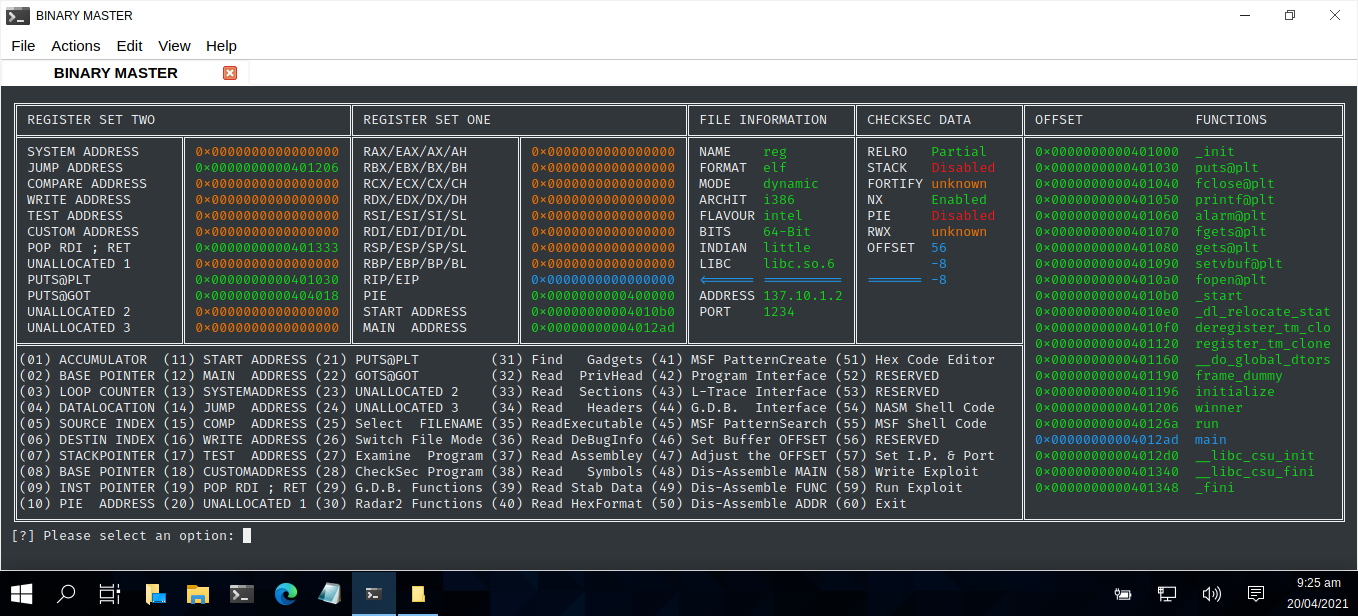
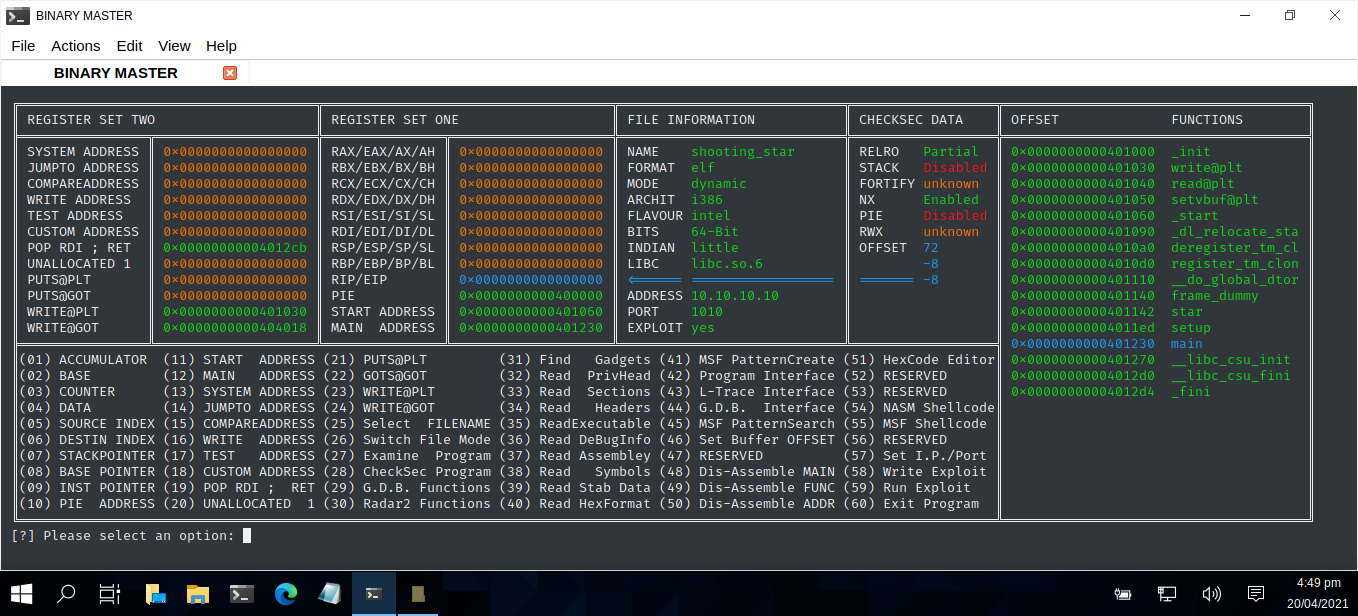
Full Stack

diff --git a/BinaryMaster.py b/BinaryMaster.py
@@ -164,12 +164,12 @@ def saveParams():
    return     
 
 def dispMenu():
-   print('\u2554' + ('\u2550')*38 + '\u2566' + ('\u2550')*36 + '\u2566' + ('\u2550')*28 + '\u2566' + ('\u2550')*18 + '\u2566' + ('\u2550')*37 + '\u2557')
-   print('\u2551' + " REGISTER SET TWO " + (" ")*20 + '\u2551' + " REGISTER SET ONE " + (" ")*18 + '\u2551' + " FILE INFORMATION " + (" ")*10 + '\u2551' + " CHECKSEC DATA    " + '\u2551' + " OFFSET              FUNCTIONS       " + '\u2551')
-   print('\u2560' + ('\u2550')*17 + '\u2566' + ('\u2550')*20 + '\u256C' + ('\u2550')*15 + '\u2566' + ('\u2550')*20 + '\u256C' + ('\u2550')*28 + '\u256C' + ('\u2550')*18 + '\u256C' +  ('\u2550')*37 + '\u2563')   
+   print('\u2554' + ('\u2550')*37 + '\u2566' + ('\u2550')*36 + '\u2566' + ('\u2550')*28 + '\u2566' + ('\u2550')*18 + '\u2566' + ('\u2550')*38 + '\u2557')
+   print('\u2551' + " REGISTER SET TWO " + (" ")*19 + '\u2551' + " REGISTER SET ONE " + (" ")*18 + '\u2551' + " FILE INFORMATION " + (" ")*10 + '\u2551' + " CHECKSEC DATA    " + '\u2551' + " OFFSET              FUNCTIONS        " + '\u2551')
+   print('\u2560' + ('\u2550')*16 + '\u2566' + ('\u2550')*20 + '\u256C' + ('\u2550')*15 + '\u2566' + ('\u2550')*20 + '\u256C' + ('\u2550')*28 + '\u256C' + ('\u2550')*18 + '\u256C' +  ('\u2550')*38 + '\u2563')   
 # -- -- -- -- -- -- -- -- -- -- -- -- -- -- -- -- -- -- -- -- -- --- -- -- --- -  
    for x in range(0,12):
-      print('\u2551' + HED1[x][:17] + '\u2551', end=' ')
+      print('\u2551' + HED1[x][:16] + '\u2551', end=' ')
       if REG2[x] == "0x0000000000000000":
          print(colored(REG2[x],colour7), end=' ')
       else:
@@ -215,7 +215,7 @@ def dispMenu():
          print(colored(FUNC[x],colour6), end=' ')
       print('\u2551')	
 # -- -- -- -- -- -- -- -- -- -- -- -- -- -- -- -- -- -- -- -- -- --- -- -- --- -  
-   print('\u2560' + ('\u2550')*17 + '\u2569' + ('\u2550')*20 + '\u2569' + ('\u2550')*15 + '\u2569' + ('\u2550')*20 + '\u2569' + ('\u2550')*28 + '\u2569' + ('\u2550')*18 + '\u2563', end=' ')
+   print('\u2560' + ('\u2550')*16 + '\u2569' + ('\u2550')*20 + '\u2569' + ('\u2550')*15 + '\u2569' + ('\u2550')*20 + '\u2569' + ('\u2550')*28 + '\u2569' + ('\u2550')*18 + '\u2563', end=' ')
    if "main" in FUNC[12]:
       print(colored(FUNC[12],colour3), end=' ')
    else:
@@ -224,77 +224,77 @@ def dispMenu():
    return
    
 def options():
-   print('\u2551' + "(01) ACCUMULATOR  (11) START ADDRESS (21) PUTS@PLT         (31) Find   Gadgets (41) MSF PatternCreate (51) Hex Code Editor " + '\u2551',end=' ')
+   print('\u2551' + "(01) ACCUMULATOR  (11) START  ADDRESS (21) PUTS@PLT         (31) Find   Gadgets (41) MSF PatternCreate (51) HexCode Editor" + '\u2551',end=' ')
    if "main" in FUNC[13]:
       print(colored(FUNC[13],colour3), end=' ')
    else:
       print(colored(FUNC[13],colour6), end=' ')     
    print('\u2551')
 # -- -- -- -- -- -- -- -- -- -- -- -- -- -- -- -- -- -- -- -- -- --- -- -- --- -  
-   print('\u2551' + "(02) BASE POINTER (12) MAIN  ADDRESS (22) GOTS@GOT         (32) Read  PrivHead (42) Program Interface (52) RESERVED        " + '\u2551',end=' ')
+   print('\u2551' + "(02) BASE         (12) MAIN   ADDRESS (22) GOTS@GOT         (32) Read  PrivHead (42) Program Interface (52) RESERVED      " + '\u2551',end=' ')
    if "main" in FUNC[14]:
       print(colored(FUNC[14],colour3), end=' ')
    else:
       print(colored(FUNC[14],colour6), end=' ')     
    print('\u2551')
 # -- -- -- -- -- -- -- -- -- -- -- -- -- -- -- -- -- -- -- -- -- --- -- -- --- -  
-   print('\u2551' + "(03) LOOP COUNTER (13) SYSTEMADDRESS (23) UNALLOCATED 2    (33) Read  Sections (43) L-Trace Interface (53) RESERVED        " + '\u2551',end=' ')
+   print('\u2551' + "(03) COUNTER      (13) SYSTEM ADDRESS (23) WRITE@PLT        (33) Read  Sections (43) L-Trace Interface (53) RESERVED      " + '\u2551',end=' ')
    if "main" in FUNC[15]:
       print(colored(FUNC[15],colour3), end=' ')
    else:
       print(colored(FUNC[15],colour6), end=' ')     
    print('\u2551')
 # -- -- -- -- -- -- -- -- -- -- -- -- -- -- -- -- -- -- -- -- -- --- -- -- --- - 
-   print('\u2551' + "(04) DATALOCATION (14) JUMP  ADDRESS (24) UNALLOCATED 3    (34) Read   Headers (44) G.D.B.  Interface (54) NASM Shell Code " + '\u2551', end=' ')
+   print('\u2551' + "(04) DATA         (14) JUMPTO ADDRESS (24) WRITE@GOT        (34) Read   Headers (44) G.D.B.  Interface (54) NASM Shellcode" + '\u2551', end=' ')
    if "main" in FUNC[16]:
       print(colored(FUNC[16],colour3), end=' ')
    else:
       print(colored(FUNC[16],colour6), end=' ')
    print('\u2551')
 # -- -- -- -- -- -- -- -- -- -- -- -- -- -- -- -- -- -- -- -- -- --- -- -- --- -  
-   print('\u2551' + "(05) SOURCE INDEX (15) COMP  ADDRESS (25) Select  FILENAME (35) ReadExecutable (45) MSF PatternSearch (55) MSF Shell Code  " + '\u2551',end=' ')
+   print('\u2551' + "(05) SOURCE INDEX (15) COMPAREADDRESS (25) Select  FILENAME (35) ReadExecutable (45) MSF PatternSearch (55) MSF Shellcode " + '\u2551',end=' ')
    if "main" in FUNC[17]:
       print(colored(FUNC[17],colour3), end=' ')
    else:
       print(colored(FUNC[17],colour6), end=' ')     
    print('\u2551')
    # -- -- -- -- -- -- -- -- -- -- -- -- -- -- -- -- -- -- -- -- -- --- -- -- --- - 
-   print('\u2551' + "(06) DESTIN INDEX (16) WRITE ADDRESS (26) Switch File Mode (36) Read DeBugInfo (46) Set Buffer OFFSET (56) RESERVED        " + '\u2551',end=' ')
+   print('\u2551' + "(06) DESTIN INDEX (16) WRITE  ADDRESS (26) Switch File Mode (36) Read DeBugInfo (46) Set Buffer OFFSET (56) RESERVED      " + '\u2551',end=' ')
    if "main" in FUNC[18]:
       print(colored(FUNC[18],colour3), end=' ')
    else:
       print(colored(FUNC[18],colour6), end=' ')     
    print('\u2551')
 # -- -- -- -- -- -- -- -- -- -- -- -- -- -- -- -- -- -- -- -- -- --- -- -- --- -  
-   print('\u2551' + "(07) STACKPOINTER (17) TEST  ADDRESS (27) Examine  Program (37) Read Assembley (47) Adjust the OFFSET (57) Set I.P. & Port " + '\u2551',end=' ')
+   print('\u2551' + "(07) STACKPOINTER (17) TEST   ADDRESS (27) Examine  Program (37) Read Assembley (47) RESERVED          (57) Set I.P./Port " + '\u2551',end=' ')
    if "main" in FUNC[19]:
       print(colored(FUNC[19],colour3), end=' ')
    else:
       print(colored(FUNC[19],colour6), end=' ')     
    print('\u2551')
 # -- -- -- -- -- -- -- -- -- -- -- -- -- -- -- -- -- -- -- -- -- --- -- -- --- -  
-   print('\u2551' + "(08) BASE POINTER (18) CUSTOMADDRESS (28) CheckSec Program (38) Read   Symbols (48) Dis-Assemble MAIN (58) Write Exploit   " + '\u2551',end=' ')
+   print('\u2551' + "(08) BASE POINTER (18) CUSTOM ADDRESS (28) CheckSec Program (38) Read   Symbols (48) Dis-Assemble MAIN (58) Write Exploit " + '\u2551',end=' ')
    if "main" in FUNC[20]:
       print(colored(FUNC[20],colour3), end=' ')
    else:
       print(colored(FUNC[20],colour6), end=' ')     
    print('\u2551')
 # -- -- -- -- -- -- -- -- -- -- -- -- -- -- -- -- -- -- -- -- -- --- -- -- --- -  
-   print('\u2551' + "(09) INST POINTER (19) POP RDI ; RET (29) G.D.B. Functions (39) Read Stab Data (49) Dis-Assemble FUNC (59) Run Exploit     " + '\u2551',end=' ')
+   print('\u2551' + "(09) INST POINTER (19) POP RDI ;  RET (29) G.D.B. Functions (39) Read Stab Data (49) Dis-Assemble FUNC (59) Run Exploit   " + '\u2551',end=' ')
    if "main" in FUNC[21]:
       print(colored(FUNC[21],colour3), end=' ')
    else:
       print(colored(FUNC[21],colour6), end=' ')     
    print('\u2551')
 # -- -- -- -- -- -- -- -- -- -- -- -- -- -- -- -- -- -- -- -- -- --- -- -- --- -     
-   print('\u2551' + "(10) PIE  ADDRESS (20) UNALLOCATED 1 (30) Radar2 Functions (40) Read HexFormat (50) Dis-Assemble ADDR (60) Exit Program    " + '\u2551',end=' ')
+   print('\u2551' + "(10) PIE  ADDRESS (20) UNALLOCATED  1 (30) Radar2 Functions (40) Read HexFormat (50) Dis-Assemble ADDR (60) Exit Program  " + '\u2551',end=' ')
    if FUNC[23] != "":
       print(colored(FUNC[22],colour0), end=' ');print('\u2551')    
    elif "main" in FUNC[22]:
       print(colored(FUNC[22],colour3), end=' ');print('\u2551')      
    else:
       print(colored(FUNC[22],colour6), end=' ');print('\u2551')    
-   print('\u255A' + ('\u2550')*123 + '\u2569' +  ('\u2550')*37 + '\u255D')
+   print('\u255A' + ('\u2550')*122 + '\u2569' +  ('\u2550')*38 + '\u255D')
    return
 
 # -------------------------------------------------------------------------------------
@@ -319,7 +319,6 @@ else:
 # Modified: N/A                                                               
 # -------------------------------------------------------------------------------------
 
-maxDispl = 25
 localDir = "BINARY-MASTER"
 flavour = "intel"
 
@@ -385,9 +384,11 @@ else:
                   
 print("[+] Populating system variables...")
 
-COL1 = 18					# 0x0000000000000000
+maxDispl = 25
+
+COL1 = 18
 COL2 = 45
-COL3 = 35
+COL3 = 36
 LEN1 = 0
 
 # NEW VARIABLES THAT NEED TO BE ADDED TO THE DATABSE
@@ -417,18 +418,18 @@ CSEC[8] = spacePadding("0", COL1)
 for x in range(11,12):
    CSEC[x] = spacePadding(" ", COL1)
     
-HED1[0]  = spacePadding(" SYSTEM ADDRESS ", COL1+2)   
-HED1[1]  = spacePadding(" JUMP ADDRESS   ", COL1+2)   
-HED1[2]  = spacePadding(" COMPARE ADDRESS", COL1+2)   
-HED1[3]  = spacePadding(" WRITE ADDRESS  ", COL1+2)   
-HED1[4]  = spacePadding(" TEST ADDRESS   ", COL1+2)   
-HED1[5]  = spacePadding(" CUSTOM ADDRESS ", COL1+2)   
-HED1[6]  = spacePadding(" POP RDI ; RET  ", COL1+2)   
-HED1[7]  = spacePadding(" UNALLOCATED 1  ", COL1+2)   
-HED1[8]  = spacePadding(" PUTS@PLT       ", COL1+2)   
-HED1[9]  = spacePadding(" PUTS@GOT       ", COL1+2)
-HED1[10] = spacePadding(" UNALLOCATED 2  ", COL1+2)
-HED1[11] = spacePadding(" UNALLOCATED 3  ", COL1+2)   
+HED1[0]  = spacePadding(" SYSTEM ADDRESS", COL1+2)   
+HED1[1]  = spacePadding(" JUMPTO ADDRESS", COL1+2)   
+HED1[2]  = spacePadding(" COMPAREADDRESS", COL1+2)   
+HED1[3]  = spacePadding(" WRITE ADDRESS ", COL1+2)   
+HED1[4]  = spacePadding(" TEST ADDRESS  ", COL1+2)   
+HED1[5]  = spacePadding(" CUSTOM ADDRESS", COL1+2)   
+HED1[6]  = spacePadding(" POP RDI ; RET ", COL1+2)   
+HED1[7]  = spacePadding(" UNALLOCATED 1 ", COL1+2)   
+HED1[8]  = spacePadding(" PUTS@PLT      ", COL1+2)   
+HED1[9]  = spacePadding(" PUTS@GOT      ", COL1+2)
+HED1[10] = spacePadding(" WRITE@PLT     ", COL1+2)
+HED1[11] = spacePadding(" WRITE@GOT     ", COL1+2)   
    
 HED2[0]  = spacePadding(" RAX/EAX/AX/AH  ", COL1+2)
 HED2[1]  = spacePadding(" RBX/EBX/BX/BH  ", COL1+2)
@@ -455,7 +456,7 @@ HED3[7]  = "LIBC   "
 HED3[8]  = "<======"
 HED3[9]  = "ADDRESS"
 HED3[10] = "PORT   "
-HED3[11] = "       "
+HED3[11] = "EXPLOIT"
 
 HED4[0]  = "RELRO  "
 HED4[1]  = "STACK  "
@@ -479,7 +480,7 @@ DATA[7] = spacePadding("unknown", COL1)
 DATA[8] = "="*COL1
 DATA[9] = spacePadding("0", COL1)
 DATA[10] = spacePadding("0", COL1)
-#DATA[11] = spacePadding("unknown", COL1)
+DATA[11] = spacePadding("no", COL1)
 
 # -------------------------------------------------------------------------------------
 # AUTHOR  : Terence Broadbent                                                    
@@ -1303,6 +1304,23 @@ while True:
                         address2 = "0x0000000000" + address2  
                      REG2[8] = spacePadding(address1, COL1) 
                      REG2[9] = spacePadding(address2, COL1)
+        
+         if REG2[10] == "0x0000000000000000":
+            command("objdump -D " + localDir + "/" + DATA[0].rstrip(" ") + " | grep 'write' > write.tmp")
+            counter =lineCount("write.tmp")
+            if counter > 1:
+               cutLine("<write@plt>","write.tmp")
+               with open("write.tmp","r") as main:
+                  for line in main:
+                     words = line.split()
+                     address1 = words[0].replace(":","")
+                     if (len(address1) == 6) and address1[:2] != "0x":
+                        address1 = "0x0000000000" + address1
+                     address2 = words[-2]
+                     if (len(address2) == 6) and address2[:2] != "0x":
+                        address2 = "0x0000000000" + address2  
+                     REG2[10] = spacePadding(address1, COL1) 
+                     REG2[11] = spacePadding(address2, COL1)
       prompt()
       
 # ------------------------------------------------------------------------------------- 
@@ -1649,7 +1667,7 @@ while True:
 # AUTHOR  : Terence Broadbent                                                    
 # CONTRACT: GitHub
 # Version : FULL STACK
-# Details : Menu option selected - Adjust Offset.
+# Details : Menu option selected - Blank.
 # Modified: N/A
 # -------------------------------------------------------------------------------------
 
@@ -1657,13 +1675,7 @@ while True:
       if DATA[0][:7].upper() == "UNKNOWN":
          print("[-] Filename not specified...")
       else:
-         BAK = OF2
-         OF2 = input("[?] Please enter offset value: ")
-         if OF2 != "":
-            OF2 = OF2 + " Bytes"
-            OF2 = spacePadding(OF2,COL1)
-         else:
-            OF2 = BAK
+         pass
       prompt() 
       
 # ------------------------------------------------------------------------------------- 
@@ -1986,6 +1998,7 @@ while True:
          command("echo 's.interactive()' >> " + localDir + "/exploit.py")
          command("echo 's.close()' >> " + localDir + "/exploit.py")
          print(colored("[*] Python exploit template sucessfully created...", colour3))
+      DATA[11] = spacePadding("yes", COL1)
       prompt()                       
 
 # ------------------------------------------------------------------------------------- 

diff --git a/README.md b/README.md
@@ -24,7 +24,7 @@ USAGE : python3 BinaryMaster.py
 
 | LANGUAGE  | FILENAME        | MD5 Hash                         | DESCRIPTION    | VERSION    |
 |------     |------           | -------                          | ------         | ----       |
-| python3   | BinaryMaster.py | 7d33e710b4af8b2c5f7f23701c300fa1 | Command Centre | Full Stack |
+| python3   | BinaryMaster.py | 0a932cd8a2e655382afa85e912c4f2e4 | Command Centre | Full Stack |
 
 	[x] Database not currently linked - expected version 3.0
 
